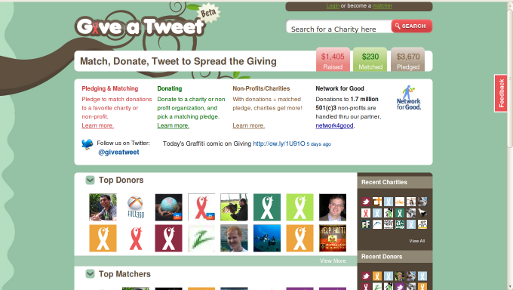
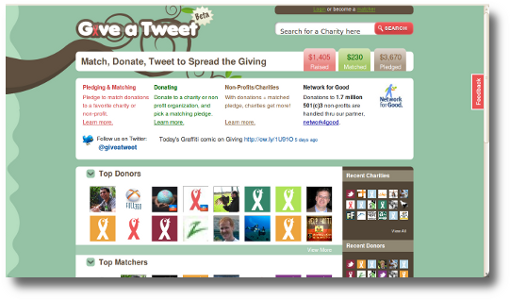
Rounded corner and shadow to project screenshots

diff --git a/index.html b/index.html
@@ -2,22 +2,20 @@
 layout: base
 title: has_many :developers - Agile Web Development
 ---
-<div id="intro" class="container">
-  <div class="span-10 append-1">
-    <h1>We Build Web Applications</h1>
-    <h2>We focus on building modern systems, helping companies create social networks,
-    e-commerce sites, and intranets</h2>
-    <h3>We are expert Ruby on Rails developers.
-    We use Ruby on Rails and Agile development, to deliver high quality products at lower costs.
-  </div>
-  <div class="span-13 last">
-    <div id="recent_projects">
-      <ul>
-        <li><img alt="" src="images/projects/giveatweet_screenshot.png" width="513" height="290" /><p>Caption for project</p></li>
-        <li><img alt="" src="images/projects/sugarstats_screenshot.png" width="513" height="290" /><p>Caption for project</p></li>
-        <li><img alt="" src="images/projects/greenwala_screenshot.png" width="513" height="290" /><p>Caption for project</p></li>
-      </ul>
-    </div>
+<div class="span-10 append-1">
+  <h1>We Build Web Applications</h1>
+  <h2>We focus on building modern systems, helping companies create social networks,
+  e-commerce sites, and intranets</h2>
+  <h3>We are expert Ruby on Rails developers.
+  We use Ruby on Rails and Agile development, to deliver high quality products at lower costs.
+</div>
+<div class="span-13 last">
+  <div id="recent_projects">
+    <ul>
+      <li><img alt="" src="images/projects/giveatweet_screenshot.png" width="510" height="300" /><p>Caption for project</p></li>
+      <li><img alt="" src="images/projects/sugarstats_screenshot.png" width="510" height="300" /><p>Caption for project</p></li>
+      <li><img alt="" src="images/projects/greenwala_screenshot.png" width="510" height="300" /><p>Caption for project</p></li>
+    </ul>
   </div>
 </div>
 
